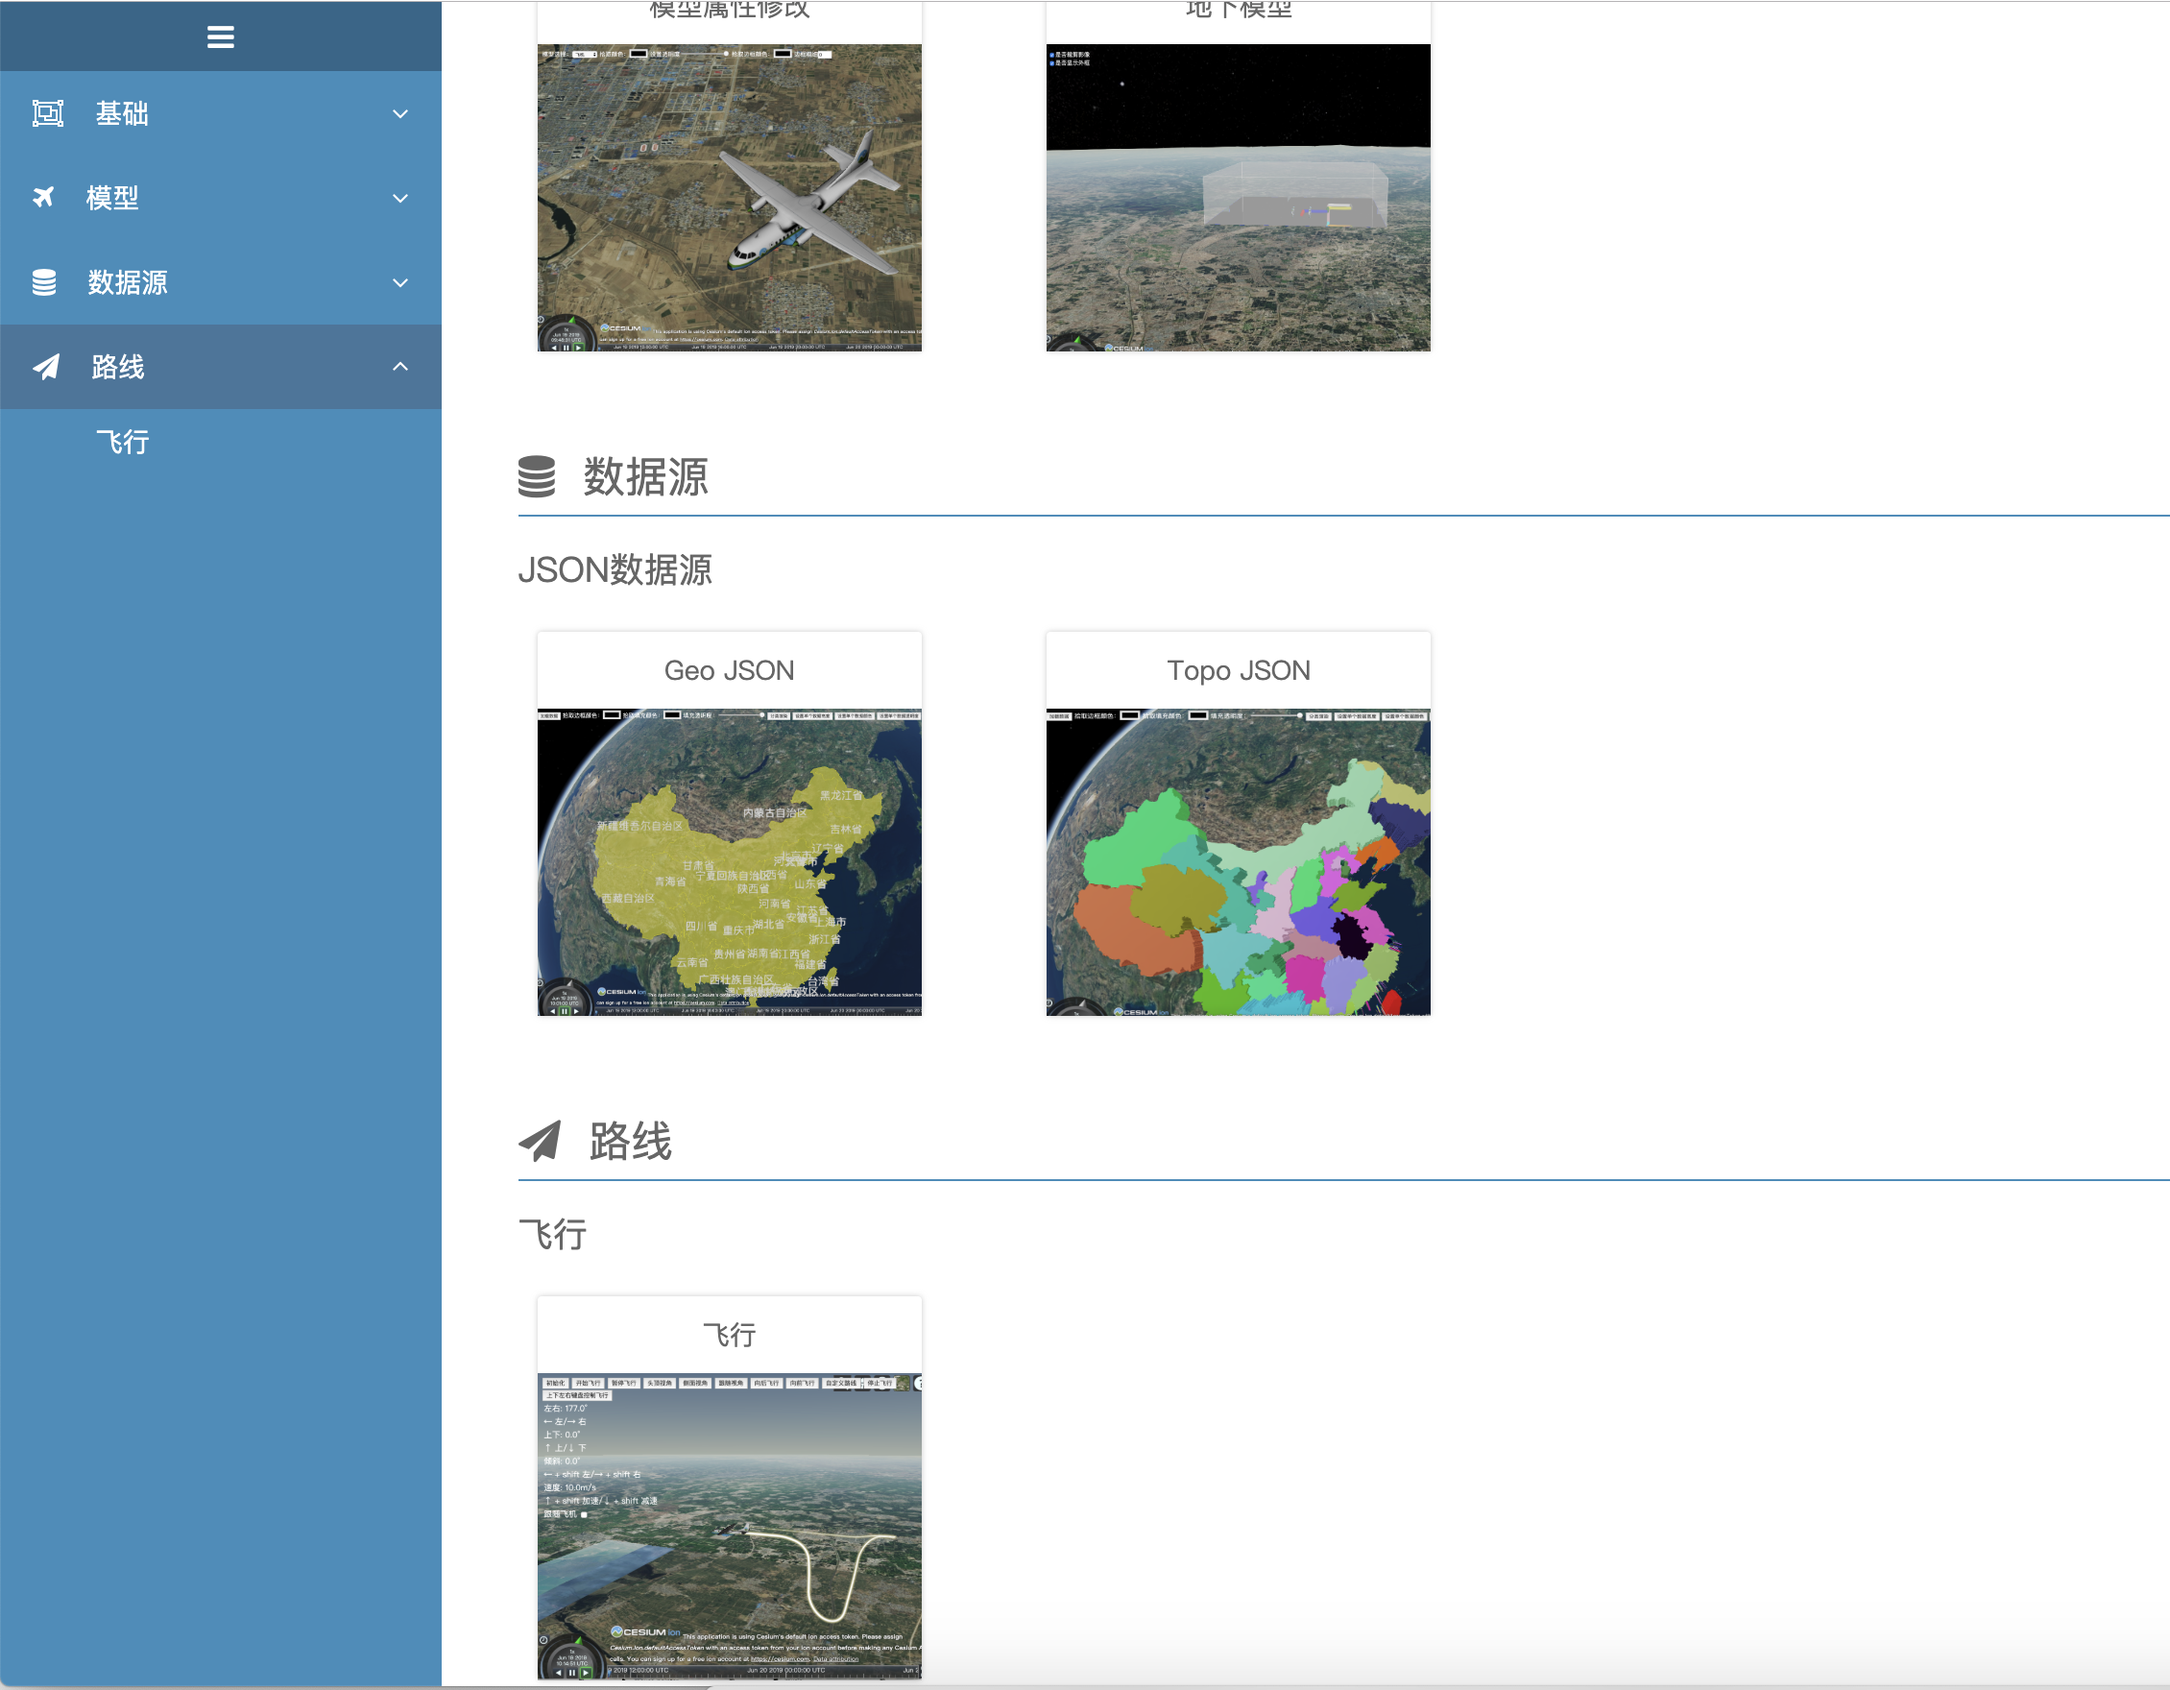
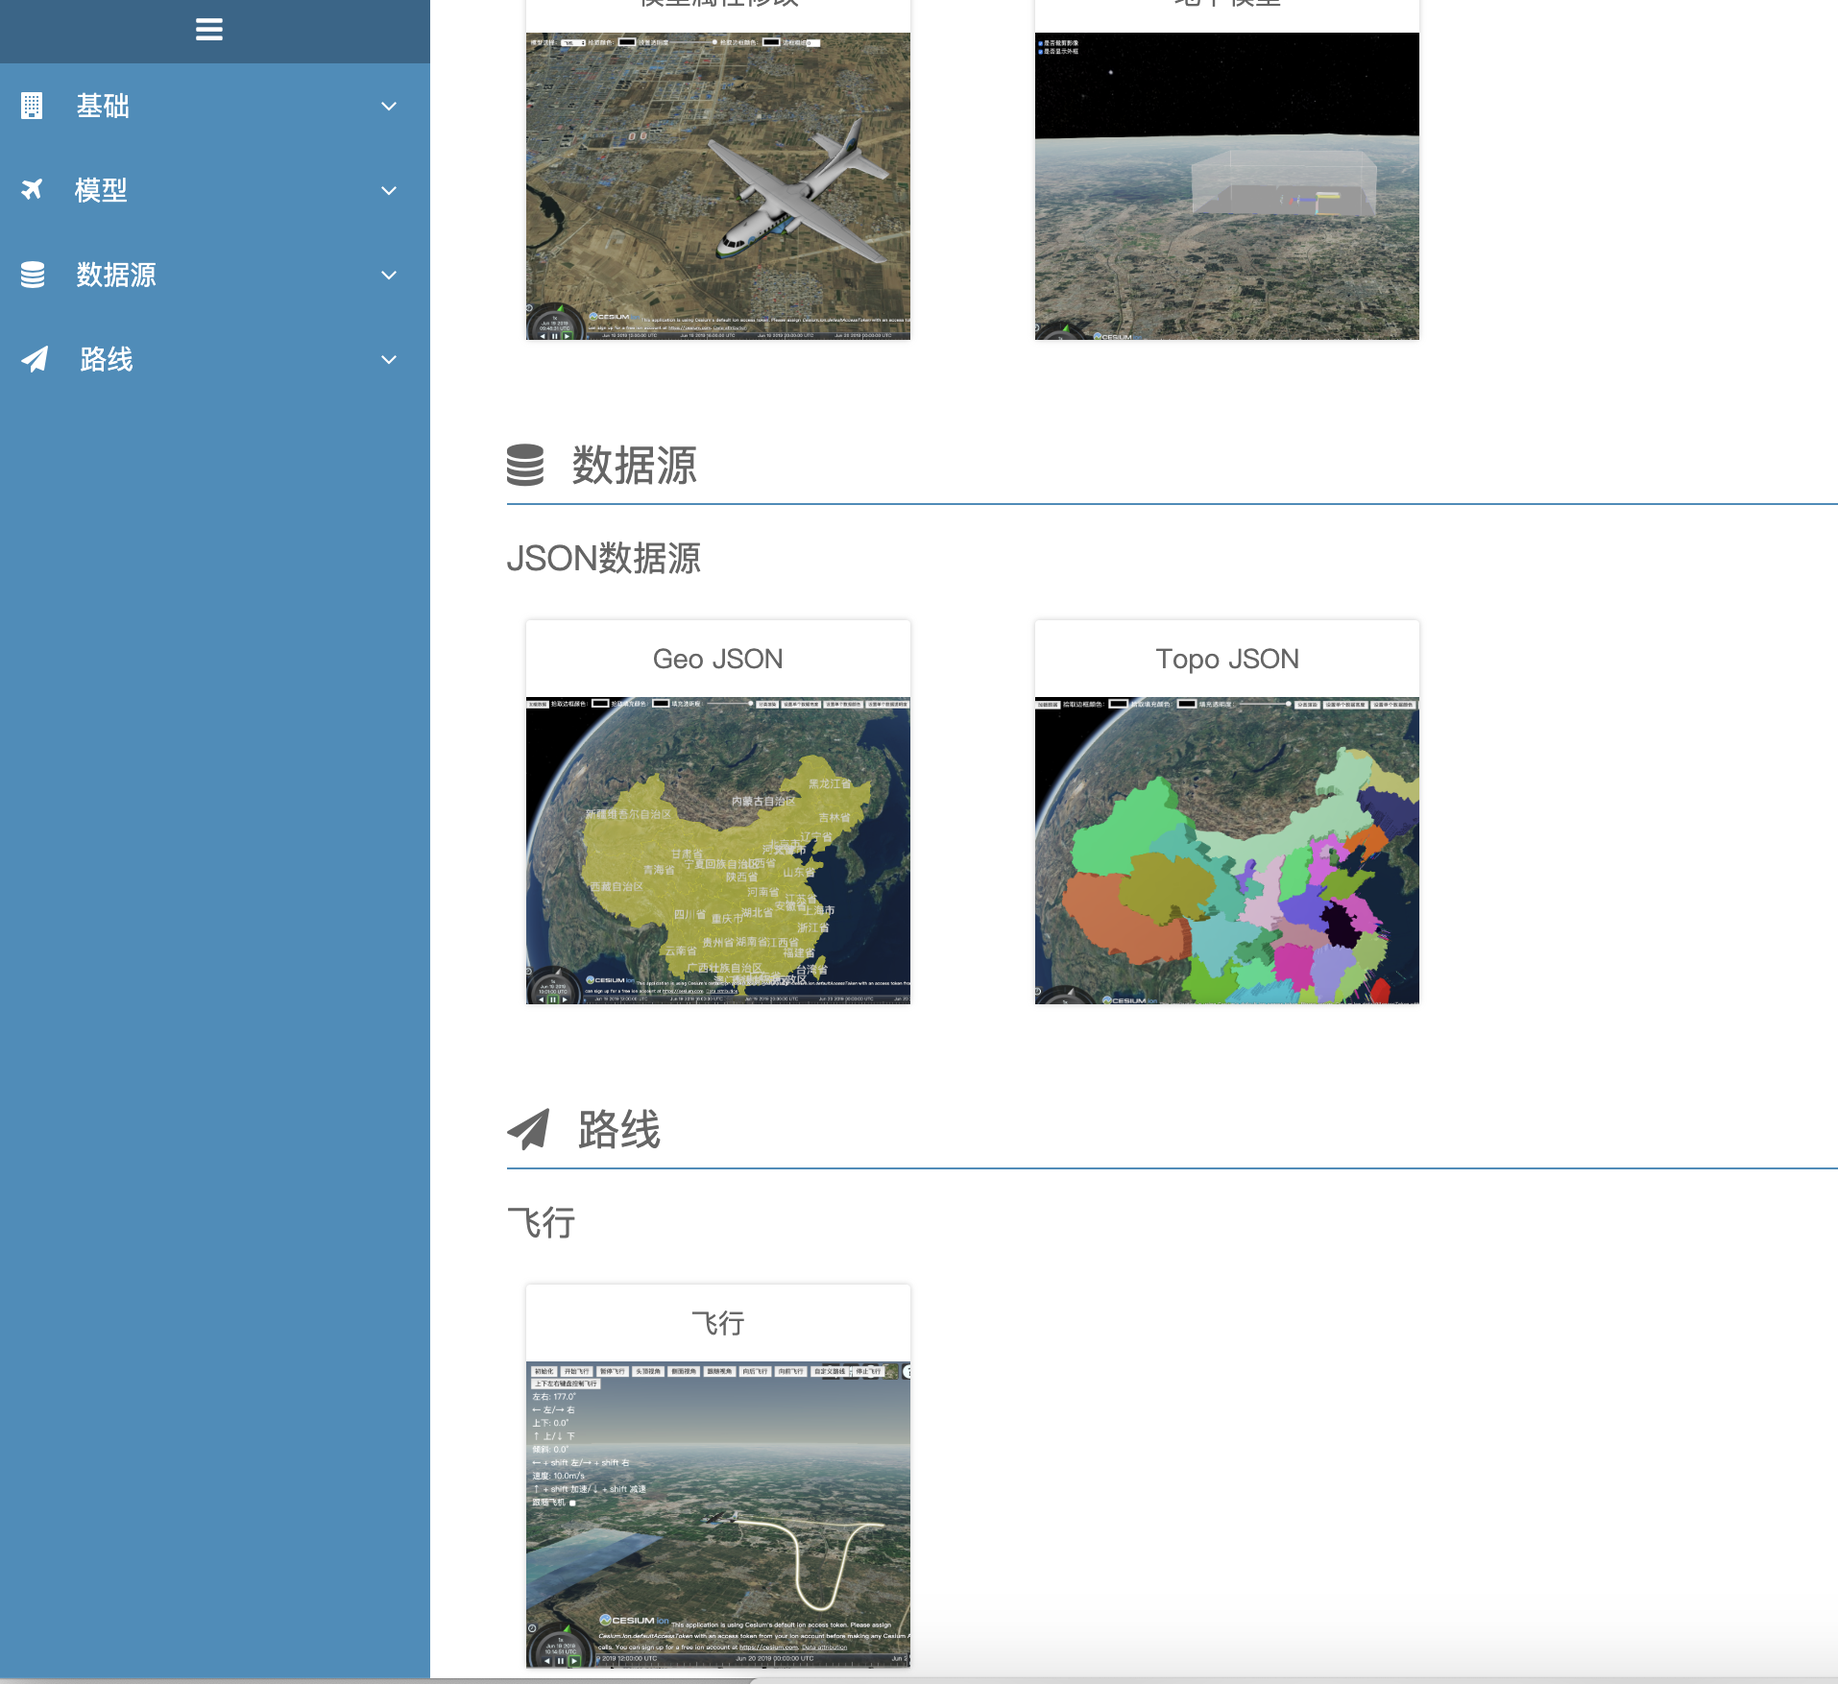
修改整体效果上传

Changed region(s): [[0.0, 0.0, 0.7706, 1.0]]

diff --git a/index.html b/index.html
@@ -310,7 +310,7 @@
         <ul class ="menu">
             <li class="root_menu">
                 <div class="menu_item" onclick="toggoleSildMenu(event)">
-                    <span class="fa fa-object-group icon"></span>
+                    <span class="fa fa-building icon"></span>
                     <span>基础</span>
                     <span class="fa fa-angle-down pull-right"></span>
                 </div>
